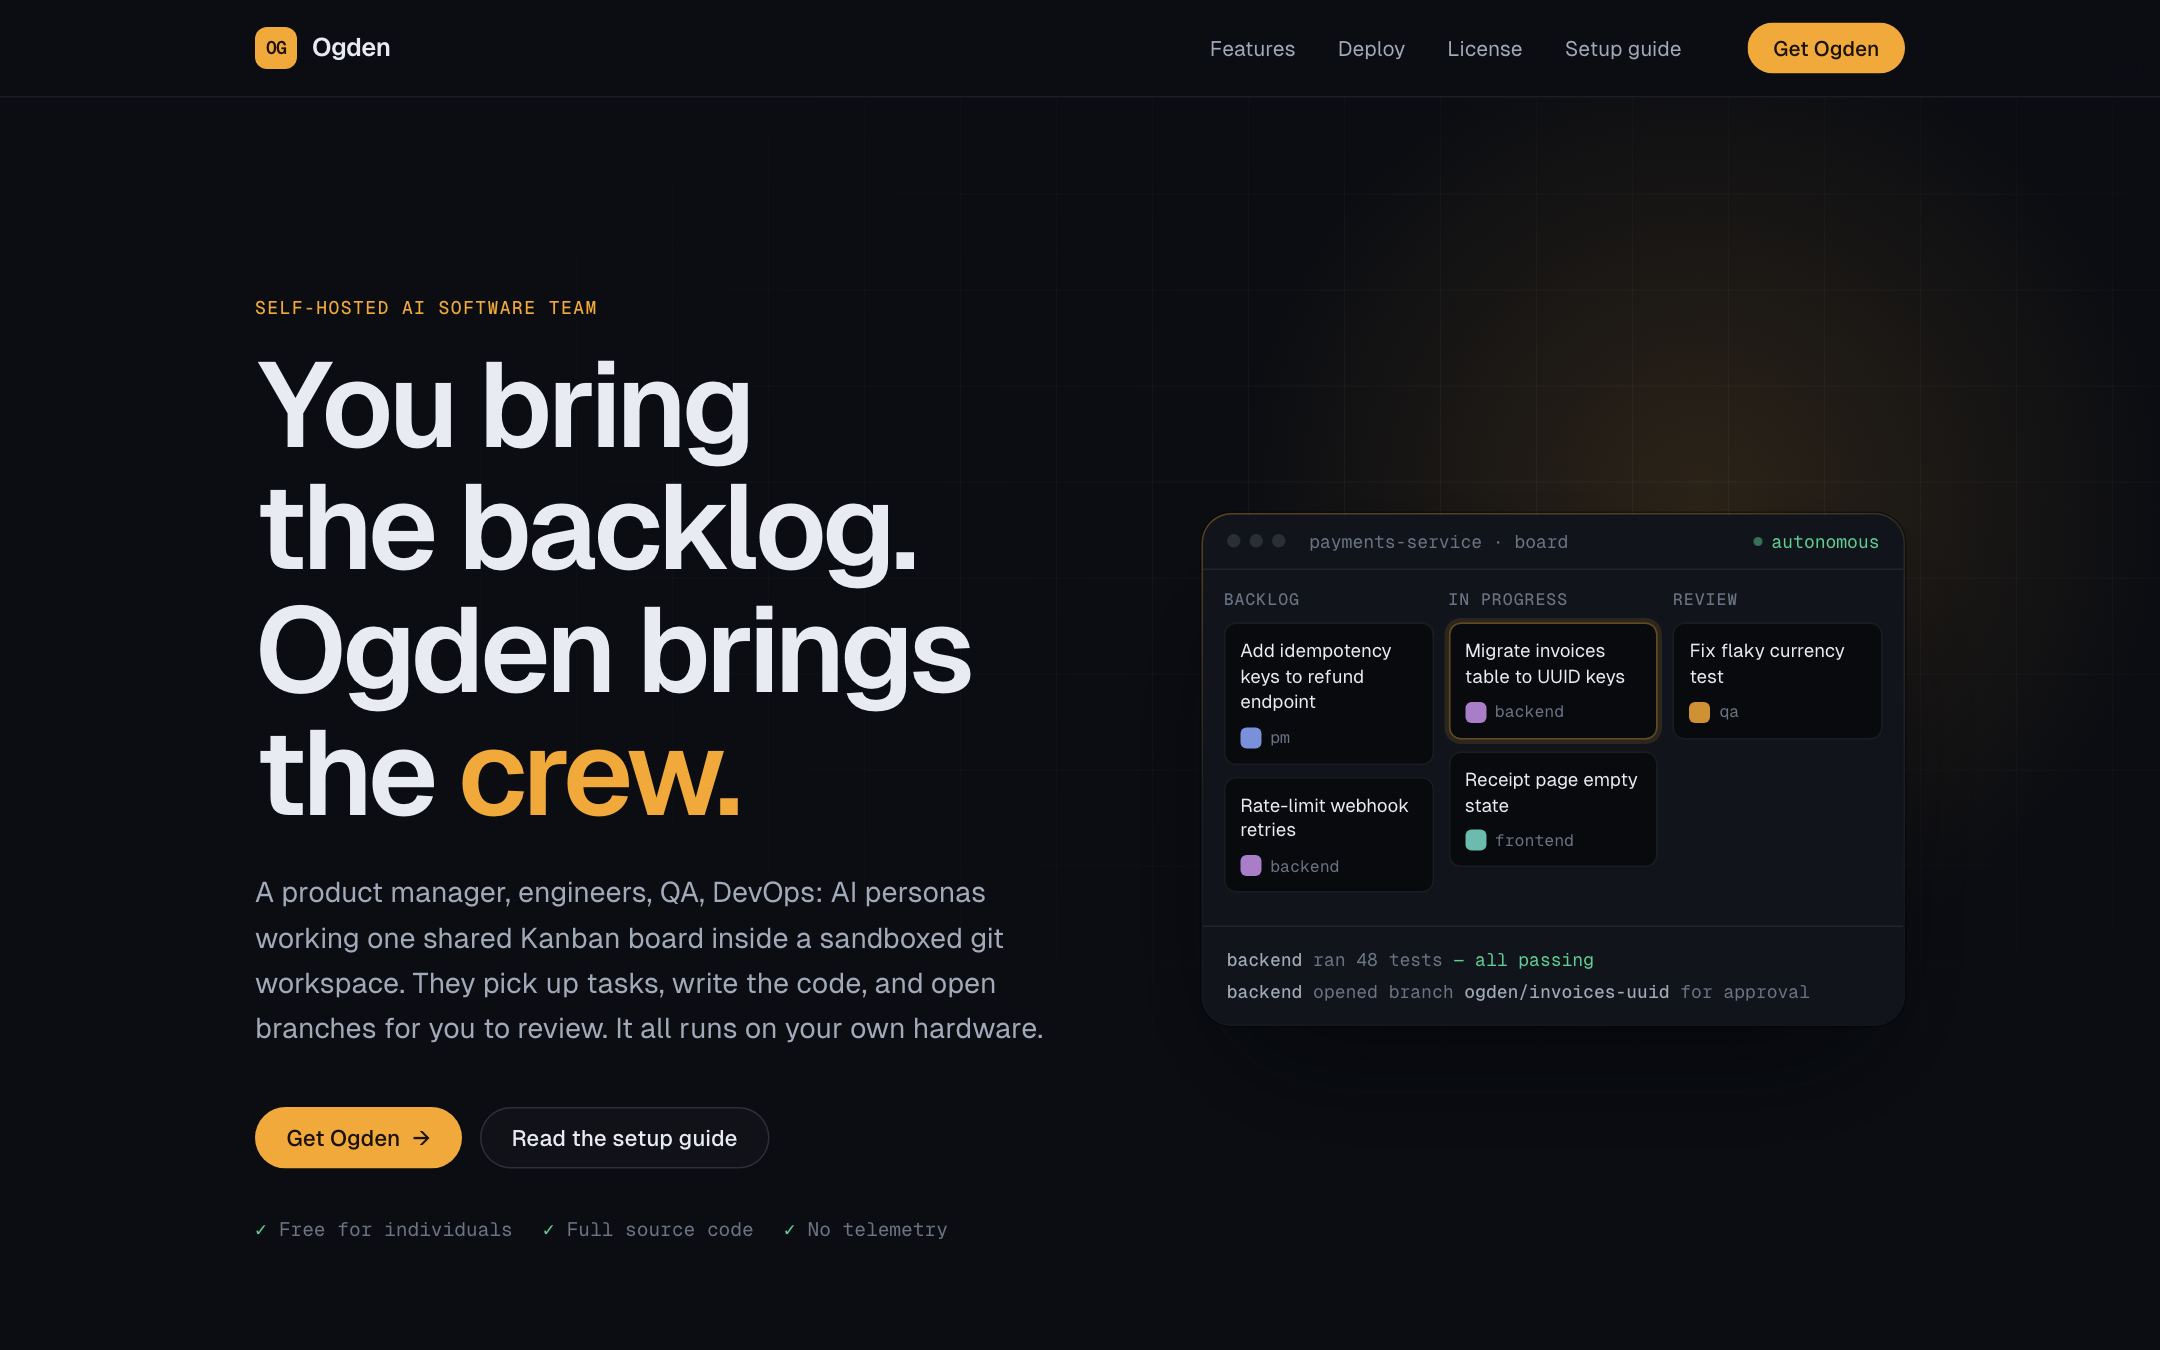
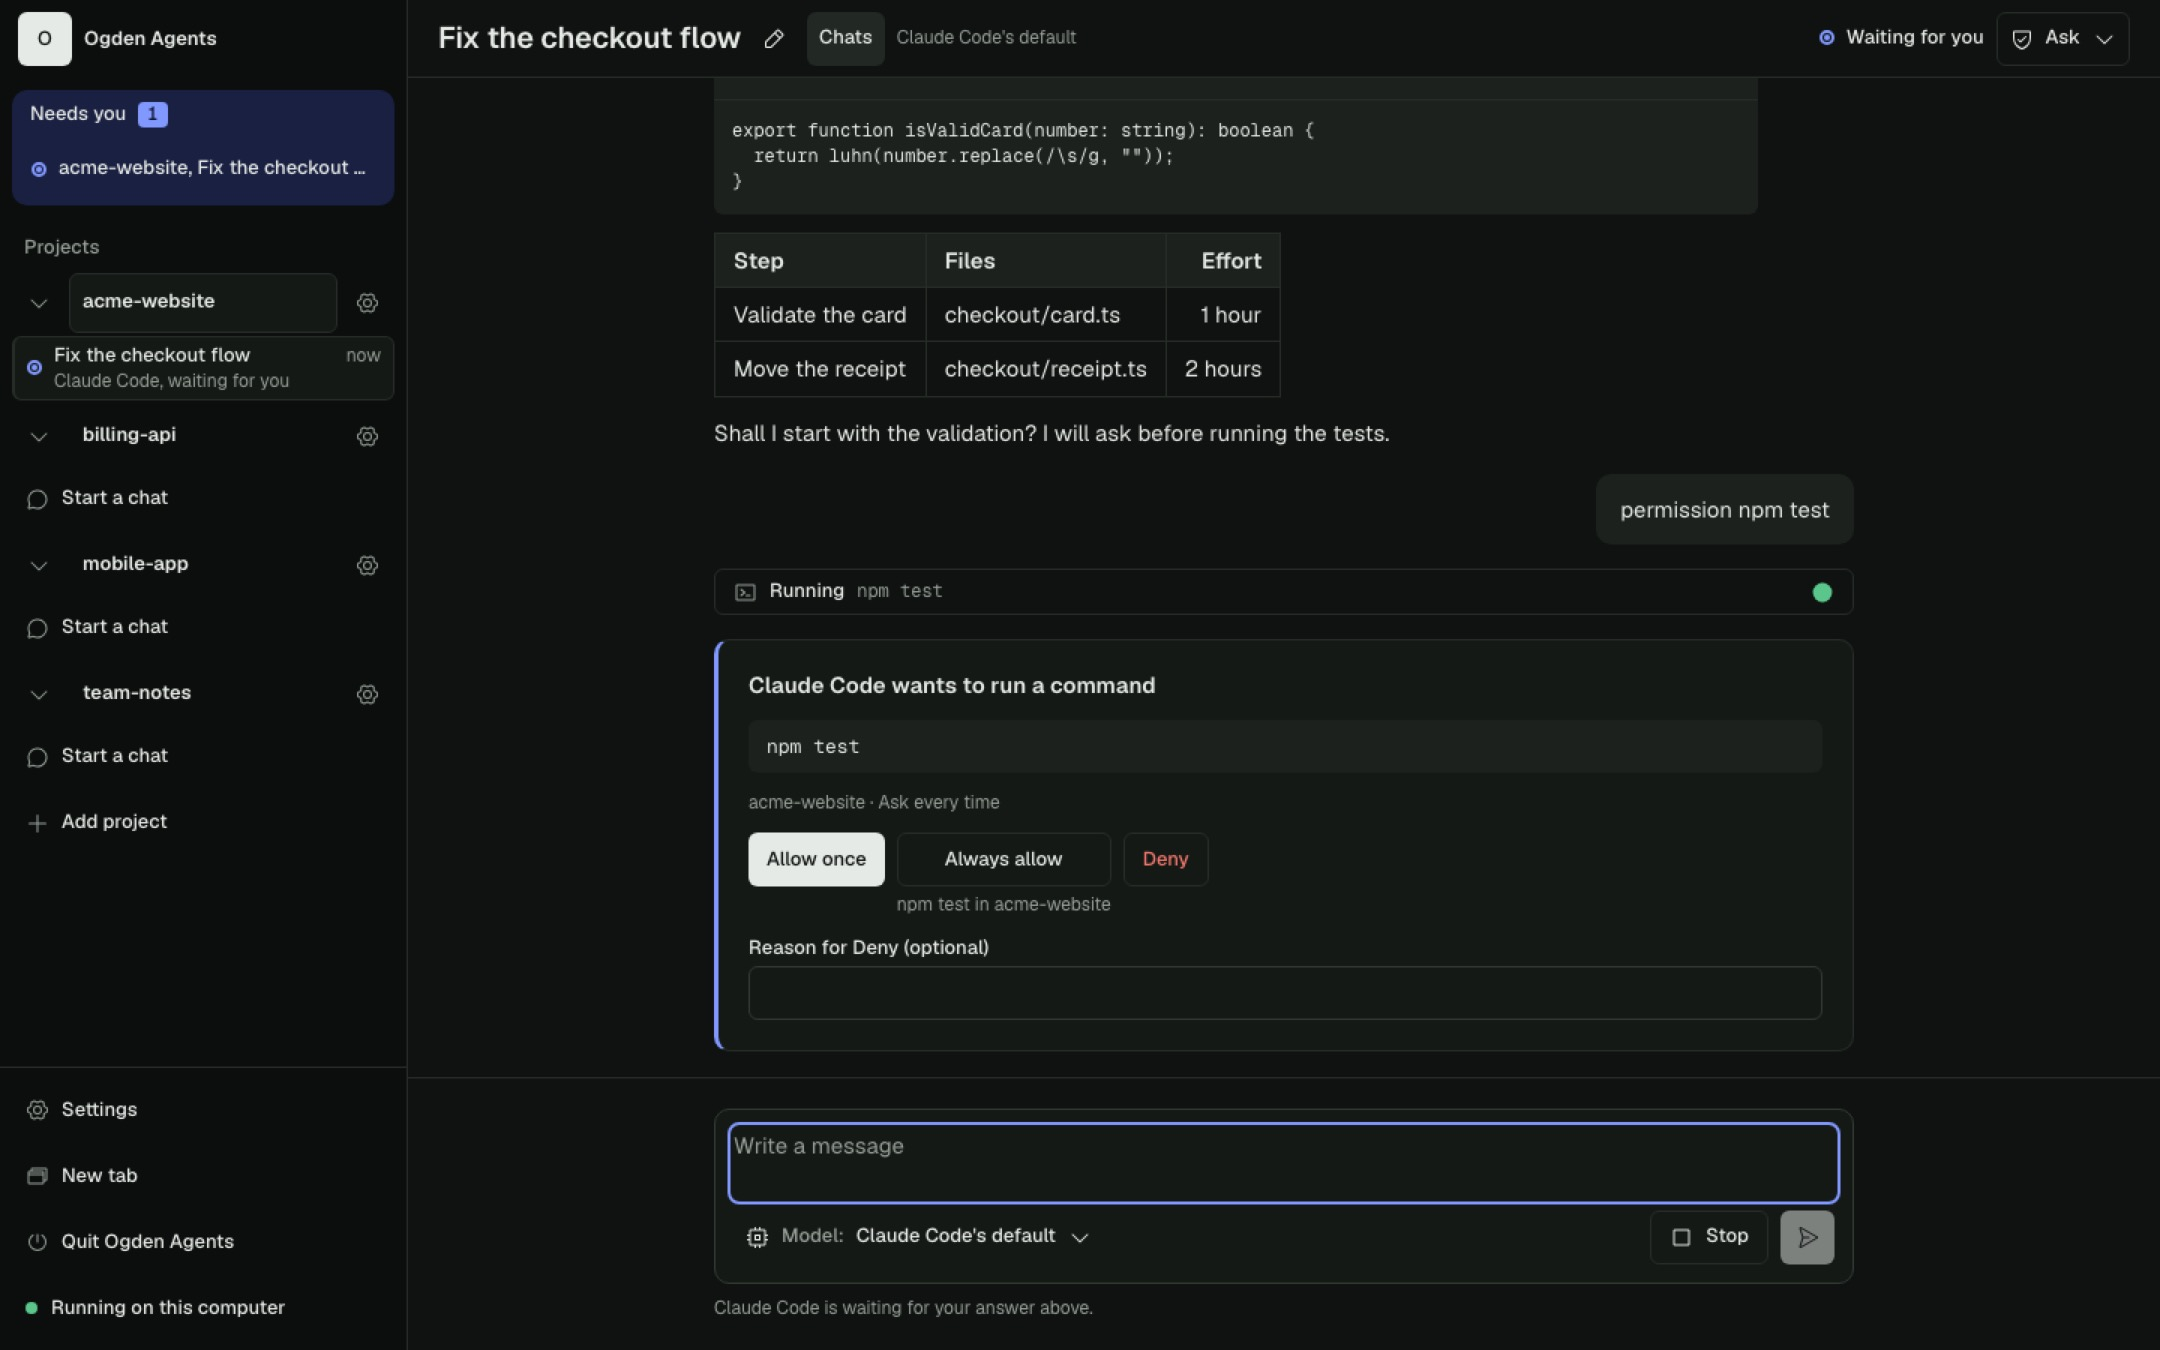
Update Ogden work tile for the v1 open-source relaunch
Ogden was rebuilt from scratch as Ogden Agents: a free, MIT-licensed
local app for running Claude Code, Antigravity, Codex, Grok and local
models from one browser UI, instead of the old paid self-hosted
"crew of AI personas on a Kanban board" product this tile described.

- Rewrote the heading, description, and tags to match the real v1
  feature set (multi-agent, permission cards, open source, UI
  theming) and pointed the link at the GitHub repo
  (github.com/hsmith-dev/ogden-agents) instead of ogden.harrisonsmith.ai,
  since the repo is the unambiguous, durable source of truth.
- Replaced assets/work/ogden.jpg, which was a screenshot of the old
  product's marketing site, with a real screenshot of the actual v1
  app (its chat + permission-card view) from the ogden-agents repo's
  own docs/share/screenshots, upscaled to match this site's existing
  2160x1350 work-tile images. Updated the alt text to match.
- Left the Capstone (Lorekeeper.quest) section and every other tile
  untouched.

diff --git a/index.html b/index.html
@@ -278,19 +278,19 @@
         <article class="bezel tile-ogden reveal">
           <div class="bezel-core tile">
             <div class="tile-copy">
-              <h3><a href="https://ogden.harrisonsmith.ai" target="_blank" rel="noopener" class="stretched">Ogden</a></h3>
-              <p class="tile-kind">Multi-agent AI team platform</p>
+              <h3><a href="https://github.com/hsmith-dev/ogden-agents" target="_blank" rel="noopener" class="stretched">Ogden Agents</a></h3>
+              <p class="tile-kind">Open-source, multi-agent coding UI</p>
               <p>
-                A self-hosted crew of AI personas (product manager, engineers, QA, DevOps) working one
-                shared Kanban board inside a sandboxed git workspace. They pick up tasks, write the code,
-                and open branches for human review, with any model provider, spend caps, and a full
-                audit trail.
+                A free, fully open-source (MIT) local app, in the spirit of herdr, for running Claude
+                Code, Antigravity, Codex, Grok, or a local model from one browser UI instead of a
+                terminal per agent. Permission cards before every command or edit, BMad planning and a
+                live ticket board, and a UI you can theme down to the color.
               </p>
-              <ul class="tags"><li>Multi-agent</li><li>Human-in-the-loop</li><li>Any model provider</li><li>Self-hosted</li></ul>
+              <ul class="tags"><li>Multi-agent</li><li>Permission cards</li><li>Open source (MIT)</li><li>UI theming</li></ul>
             </div>
             <div class="tile-shot">
               <img src="assets/work/ogden.jpg" width="2160" height="1350" loading="lazy"
-                   alt="The Ogden landing page: 'You bring the backlog. Ogden brings the crew.', beside a Kanban board where AI personas move tasks from backlog to review.">
+                   alt="Ogden Agents' chat view: a project sidebar showing which chats are working or waiting, beside a permission card where Claude Code asks to run npm test.">
             </div>
             <span class="tile-arrow" aria-hidden="true"><i class="ph-light ph-arrow-up-right"></i></span>
           </div>
